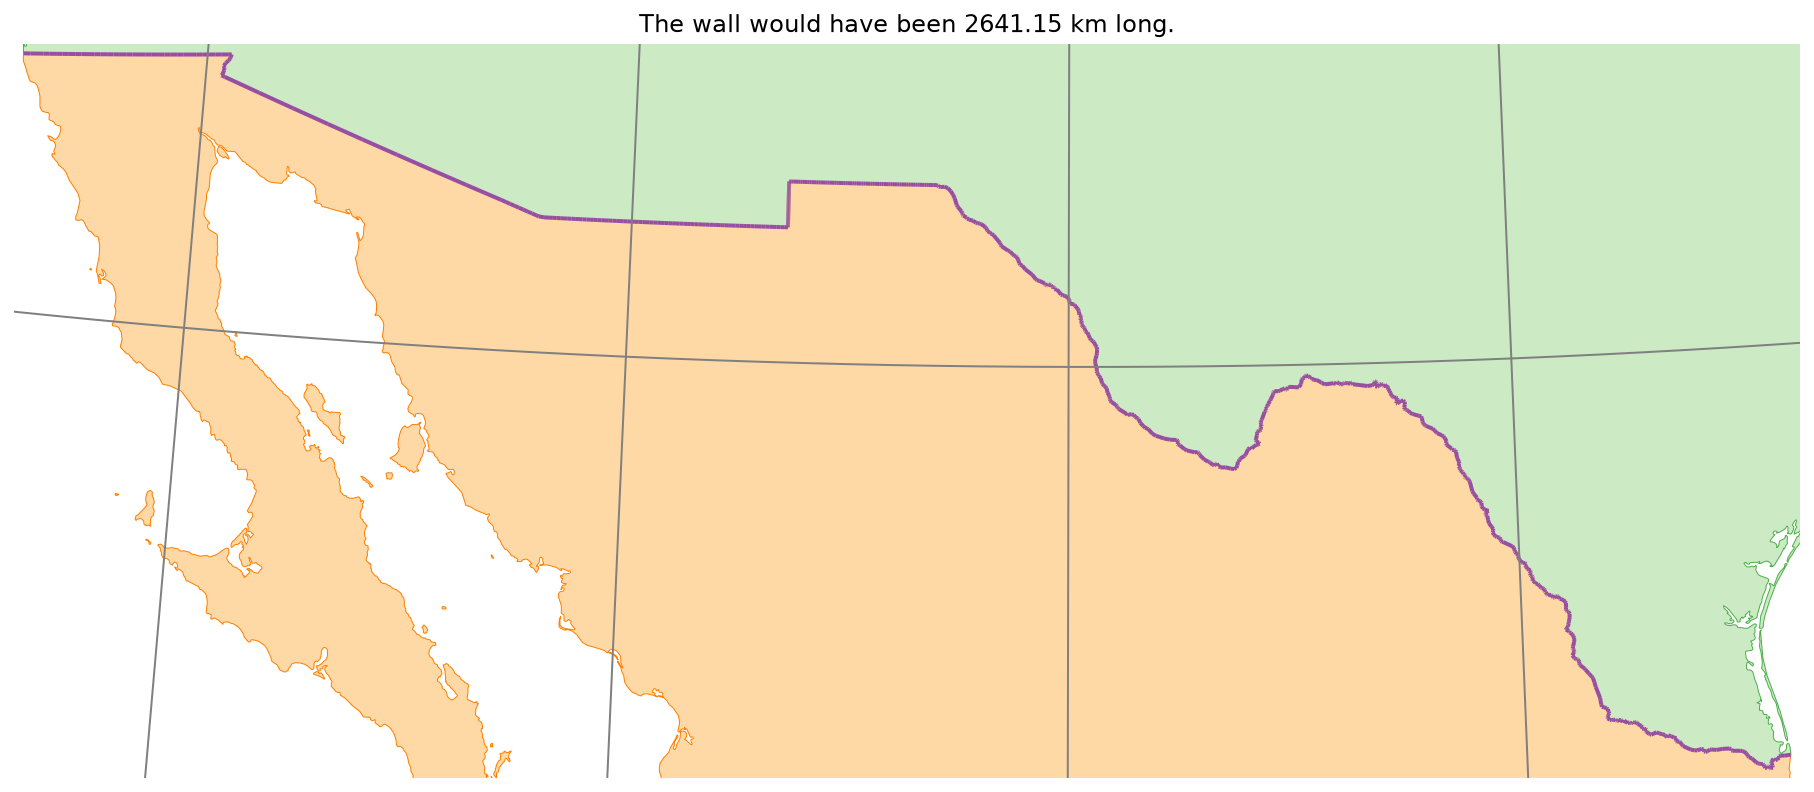
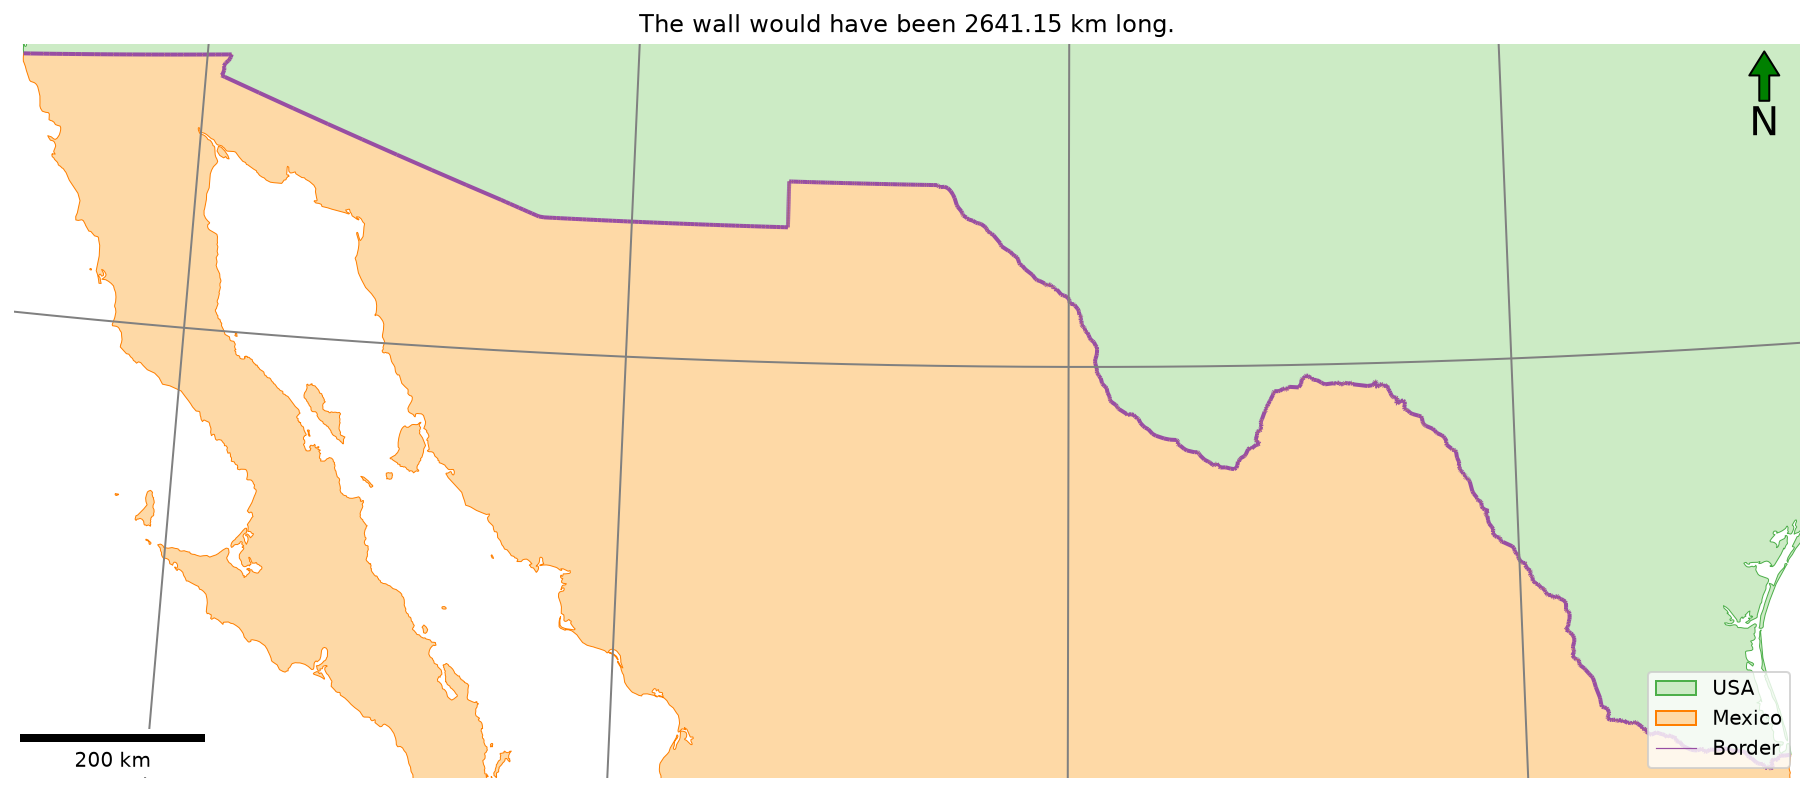
Full map with legend and scale

Changed region(s): [[0.8953, 0.8485, 0.9879, 0.9697], [0.0, 0.9091, 0.1235, 0.9697], [0.957, 0.0606, 0.9879, 0.1818]]

diff --git a/week2/wall.py b/week2/wall.py
@@ -1,6 +1,9 @@
 from geopandas import read_file, GeoSeries
 from matplotlib.pyplot import subplots, savefig, title
 from pyproj import Geod
+from matplotlib_scalebar.scalebar import ScaleBar
+from matplotlib.lines import Line2D
+from matplotlib.patches import Patch 
 
 # load the shapefile of countries - this gives a table of 12 columns and 246 rows (one per country)
 world = read_file("../../data/natural-earth/ne_10m_admin_0_countries.shp")
@@ -133,6 +136,22 @@ graticule.to_crs(lambert_conic).plot(
     color='grey',
     linewidth = 1,
     )
+
+# add north arrow
+x, y, arrow_length = 0.98, 0.99, 0.1
+my_ax.annotate('N', xy=(x, y), xytext=(x, y-arrow_length),
+	arrowprops=dict(facecolor='green', width=5, headwidth=15),
+	ha='center', va='center', fontsize=20, xycoords=my_ax.transAxes)
+
+# add scalebar
+my_ax.add_artist(ScaleBar(dx=1, units="m", location="lower left", length_fraction=0.25))
+
+# add legend
+my_ax.legend(handles=[
+        Patch(facecolor='#ccebc5', edgecolor='#4daf4a', label='USA'),
+        Patch(facecolor='#fed9a6', edgecolor='#ff7f00', label='Mexico'),
+        Line2D([0], [0], color='#984ea3',  lw=0.6, label='Border')
+    ],loc='lower right')
 
 # save the result
 savefig('out/2.png', bbox_inches='tight')
